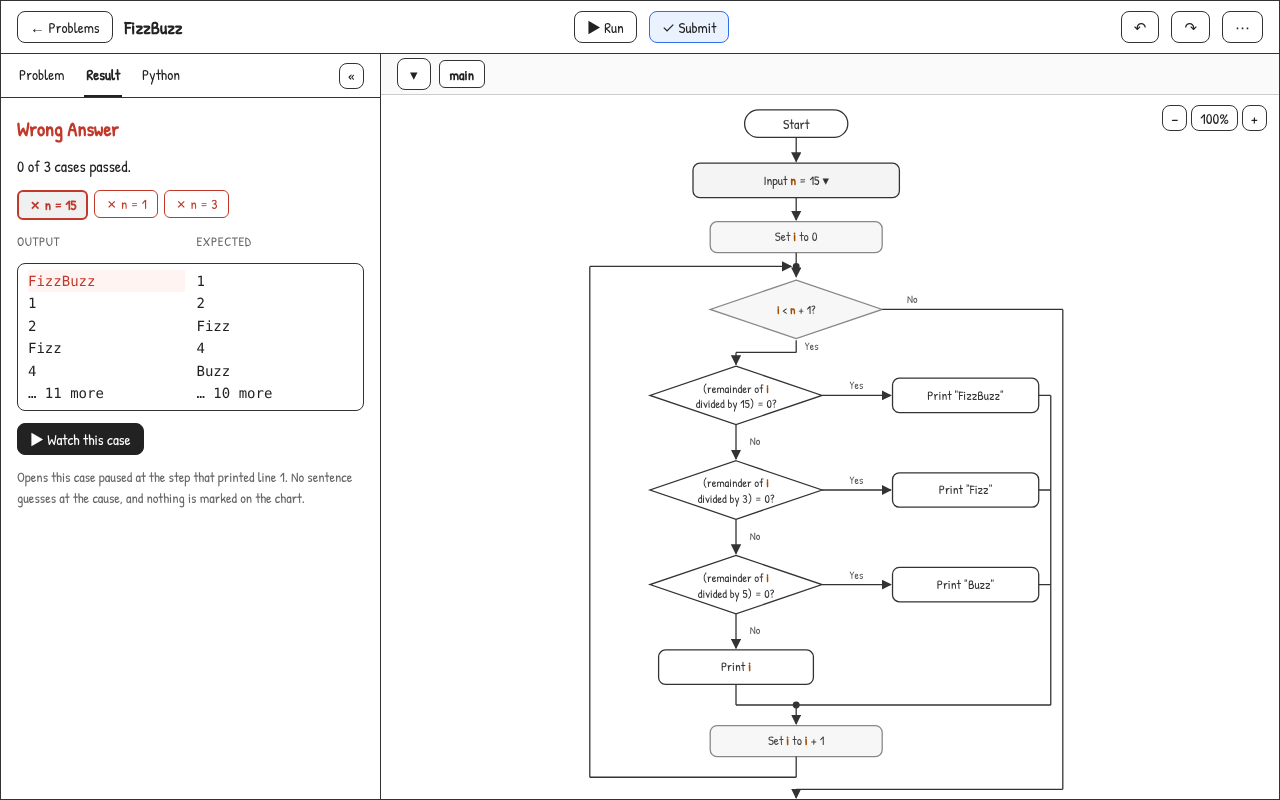
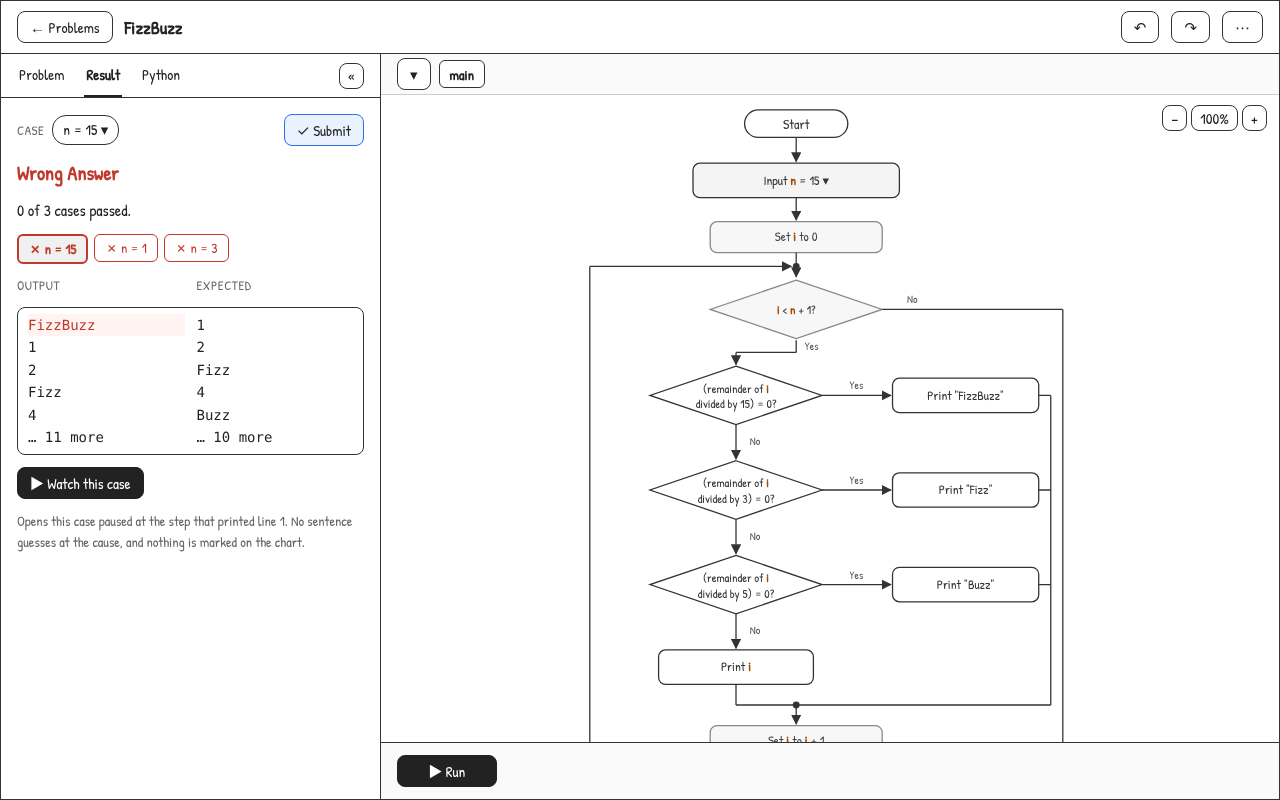
docs: draw the run bar on the artboards

diff --git a/docs/design/README.md b/docs/design/README.md
@@ -26,7 +26,7 @@ in the file.
 | `Run.png`               | 5 Run: the moment on the chart, the state in Result    | U-60..U-63, U-23, R-19 |
 | `Wrong.png`             | 6 Submit: Wrong Answer, and a way to the cause         | U-81, U-82             |
 | `Accepted.png`          | 7 Submit: Accepted, with what comes next               | U-83                   |
-| `Solution.png`          | 8 Solution: read-only in the chart area                | U-22                   |
+| `Solution.png`          | 8 Solution: read-only in the canvas                    | U-22                   |
 | `FunctionRun.png`       | 9 Run inside functions: the path bar is the call stack | U-68                   |
 | `Module.png`            | 10 Module page: run one function, keep cases, Test     | D-06, D-08, D-19, D-20 |
 | `PythonChart.png`       | 11 Python tab: a line and its block                    | U-25                   |
@@ -46,11 +46,6 @@ in the file.
   drafts derived from D-16, not emitted code.
 - `Main.png` names the first problem `Hello`; its challenge file is
   `tutorial`, and the title is the one in that file.
-- Until they are drawn again, the artboards show `▶ Run` and `✓ Submit` in
-  the top bar, the run's controls without the narration line under the
-  chart, a speed slider, and the narration beside the current node; U-03,
-  U-60, U-63, and U-80 place them in the run bar, the narration line, and the
-  `Result` tab.
 - The artboards use a hand-drawn typeface to mark them as drafts; the
   application uses the typeface of `src/ui/theme.css`.
 
